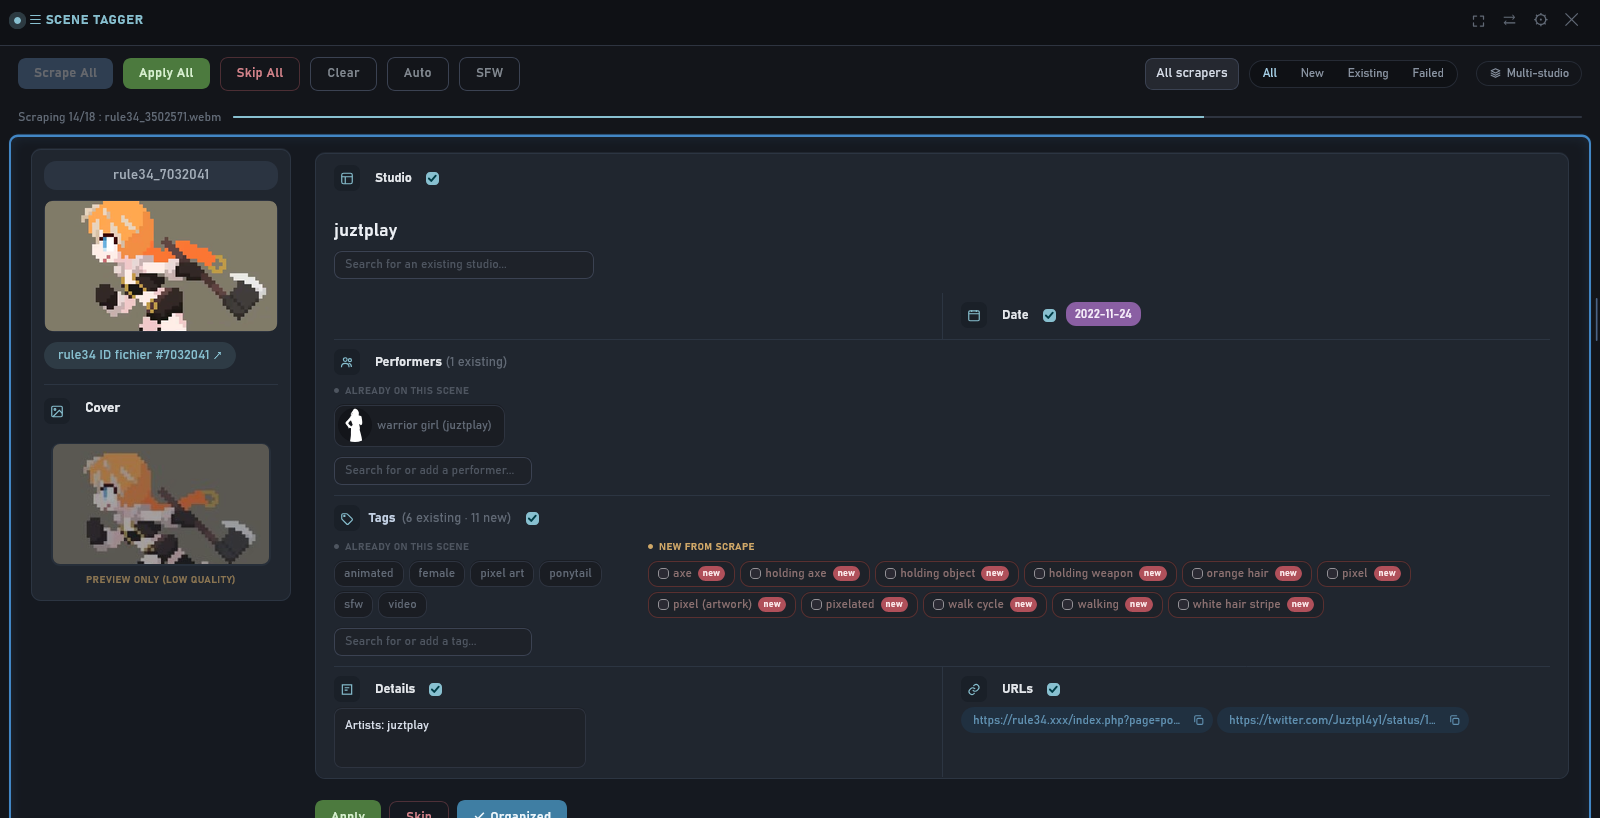
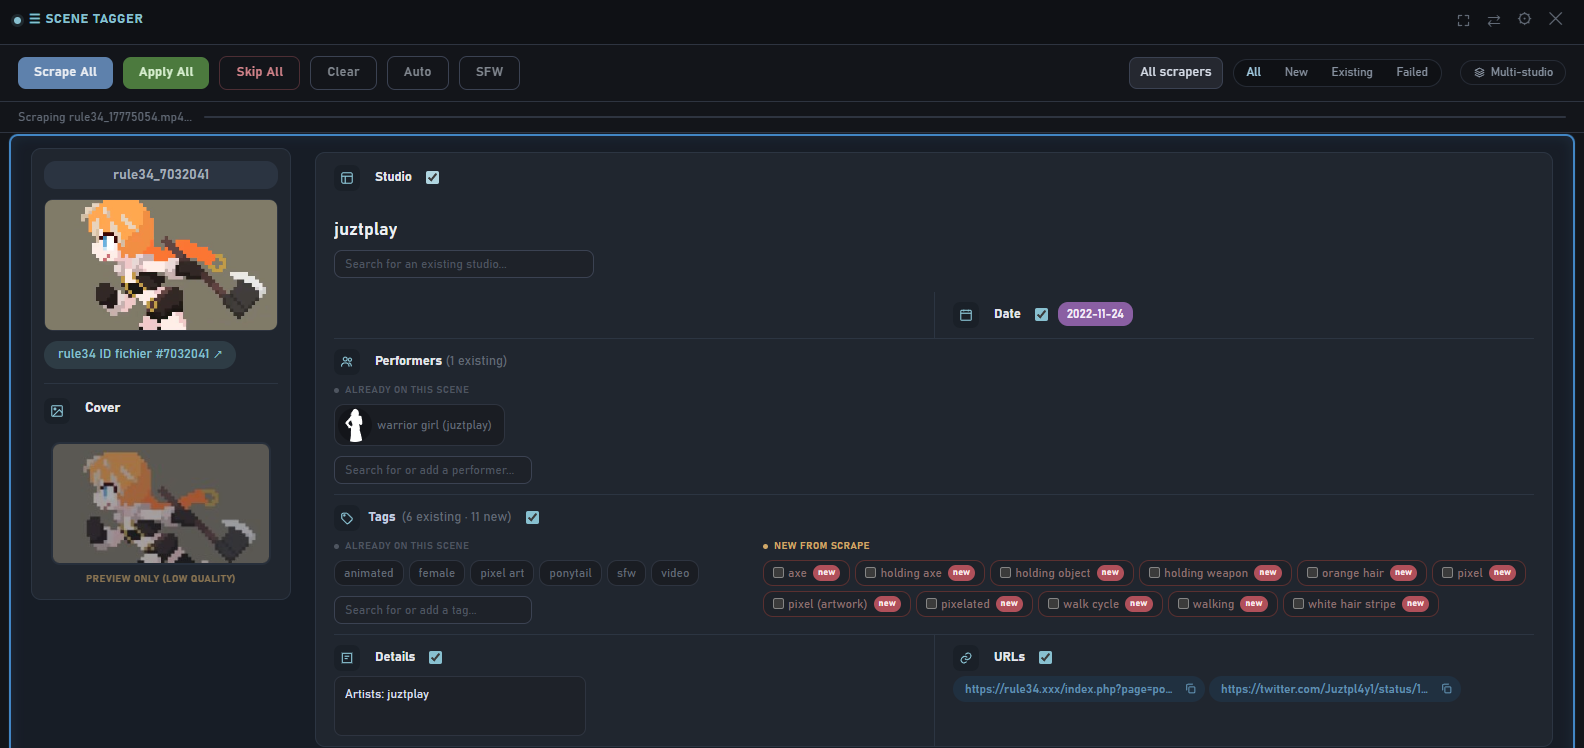
sceneTagger 1.27.10: applied scene stays in the filter it was applied from; README and split screenshot updated

diff --git a/sceneTagger/sceneTagger.js b/sceneTagger/sceneTagger.js
@@ -3512,6 +3512,8 @@
       // just before the apply - the applied row no longer shows that data).
       if (r && (r.status === "done" || r.status === "applying")) {
         var snap = r.filterSnap || {};
+        // Still visible under the exact filter combo it was applied from.
+        if (snap.pin && snap.pin.f === f && snap.pin.sf === sf && snap.pin.multi === multiOnly) { el.style.display = ""; return; }
         if (sf !== "all" && r.matchedScraperID !== sf) { el.style.display = "none"; return; }
         if (multiOnly && !snap.multi) { el.style.display = "none"; return; }
         if (f === "all") { el.style.display = ""; return; }
@@ -3814,7 +3816,15 @@
     if (!filtered) return;
     // Snapshot for the filters (see applyStudioFilter): taken while the row still
     // shows its scraped data, before it is re-rendered as "applying" / "done".
-    r.filterSnap = { studio: getRowStudioStatus(id), multi: rowHasMultipleStudioCandidates(id) };
+    // "pin*": the filter combo the row was visible under at this very moment. The studio
+    // status can change just before the apply (e.g. a "new" studio replaced by an existing one
+    // picked in the search box), which would drop the row from the filter the user is looking at.
+    var rowElPin = document.getElementById("st-row-" + id);
+    var shownNow = !!rowElPin && rowElPin.style.display !== "none";
+    r.filterSnap = {
+      studio: getRowStudioStatus(id), multi: rowHasMultipleStudioCandidates(id),
+      pin: shownNow ? { f: state.studioFilter, sf: state.scraperFilter, multi: state.multiStudioOnly } : null
+    };
     r.status = "applying"; renderRow(id);
 
     return applyScrapedData(id, filtered)

diff --git a/sceneTagger/README.md b/sceneTagger/README.md
@@ -99,13 +99,15 @@ In the Scrape Scene popup every field shows **Already on this scene** next to
 the date. What's already on the scene is always kept when you apply.
 
 The same split is available in the bulk list as an option (**Split existing /
-new data** in Settings → Display), stacked or side by side. Fields with
+new data** in Settings → Display), stacked or side by side. With the side by side option the two columns share the width in proportion to their content, so a long "Already on this scene" list takes more room instead of being squeezed. Fields with
 nothing to compare keep their compact layout, and the "New from scrape" title
 hides itself when nothing is new.
 
 ![Bulk list - existing / new split, side by side](screenshots/split-side-by-side.png)
 
 ### Studio cards with logo and banner
+
+The scene's current studio always stays visible in the bulk list (under "Already on this scene"), even when the scrape finds no studio.
 
 The studio field shows a card: the studio's logo (round when it's roughly
 square, rounded corners when it's wide) and, when the studio has one, a cover
